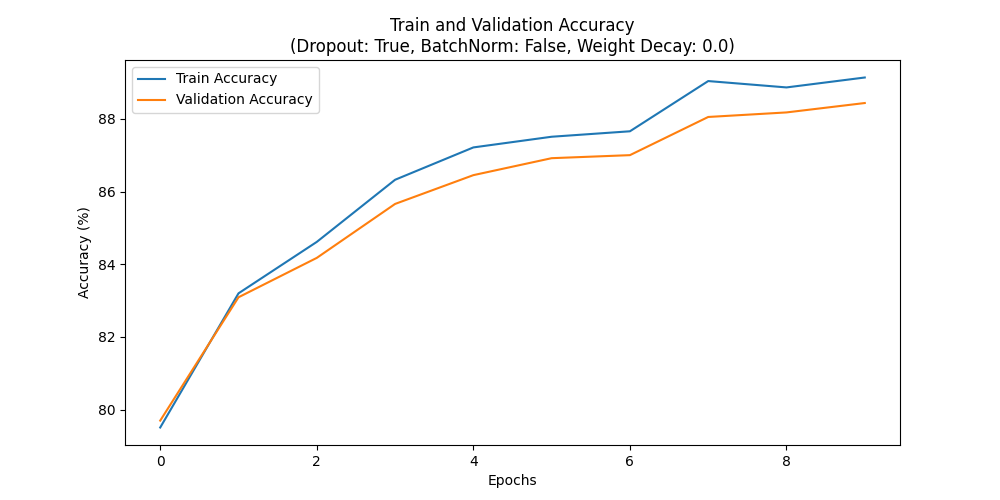
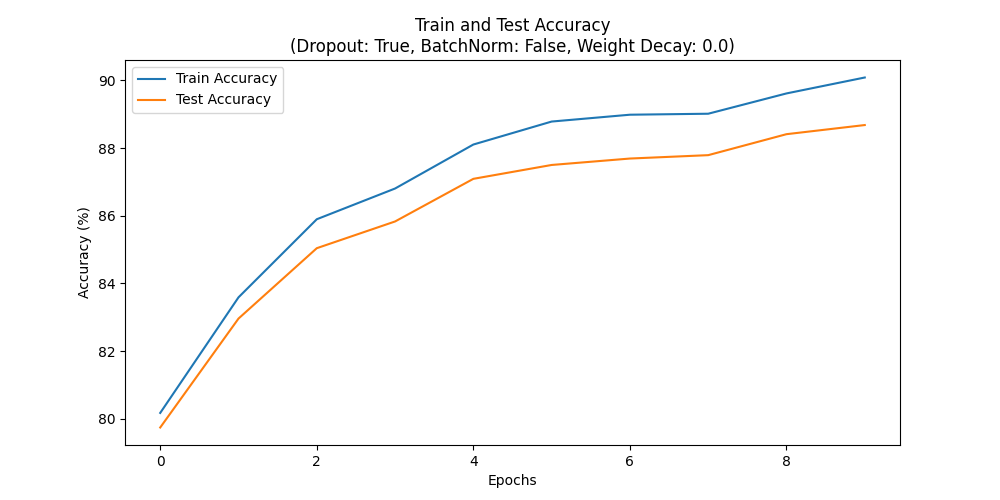
Changed from val to test

diff --git a/code/train.py b/code/train.py
@@ -2,6 +2,7 @@ import torch
 import torch.nn as nn
 import torch.optim as optim
 from tqdm import tqdm
+from evaluate import evaluate
 
 def train_epoch(model, dataloader, criterion, optimizer, device):
     model.train()
@@ -37,12 +38,13 @@ def validate(model, dataloader, criterion, device):
             correct += predicted.eq(labels).sum().item()
     return running_loss / len(dataloader), 100. * correct / total
 
-def train(model, train_loader, val_loader, num_epochs, learning_rate, device, weight_decay):
+def train(model, train_loader, val_loader, test_loader, num_epochs, learning_rate, device, weight_decay):
     criterion = nn.CrossEntropyLoss()
     optimizer = optim.Adam(model.parameters(), lr=learning_rate, weight_decay=weight_decay)
     
     train_acc_list = []
     val_acc_list = []
+    test_acc_list = []
     for epoch in range(num_epochs):
         train_loss, _ = train_epoch(model, train_loader, criterion, optimizer, device)
         
@@ -59,5 +61,12 @@ def train(model, train_loader, val_loader, num_epochs, learning_rate, device, we
         print(f"Train Loss: {train_loss:.4f} | Train Acc (without dropout): {train_acc:.2f}%")
         print(f"Val Loss: {val_loss:.4f} | Val Acc: {val_acc:.2f}%")
         print("-----------------------------")
+
+        # Evaluate on test set
+        test_acc = evaluate(model, test_loader, device)
+        test_acc_list.append(test_acc)
+        
+        print(f"Test Acc: {test_acc:.2f}%")
+        print("-----------------------------")
     
-    return model, train_acc_list, val_acc_list
+    return model, train_acc_list, val_acc_list,  test_acc_list

diff --git a/code/main.py b/code/main.py
@@ -19,14 +19,14 @@ def main():
     # Initialize model
     use_dropout = False  # Toggle this to True/False to enable/disable dropout
     use_batchnorm = False  # Toggle this to True/False to enable/disable batch normalization
-    weight_decay = 0.000  # Set this to 0 to disable weight decay
+    weight_decay = 0.0001  # Set this to 0 to disable weight decay
     
     model = LeNet5(use_dropout=use_dropout, use_batchnorm=use_batchnorm).to(device)
     
     # Train model
     num_epochs = 10
     learning_rate = 0.001
-    trained_model, train_acc, val_acc = train(model, train_loader, val_loader, num_epochs, learning_rate, device, weight_decay)
+    trained_model, train_acc, val_acc, test_acc = train(model, train_loader, val_loader, test_loader, num_epochs, learning_rate, device, weight_decay)
     
     # Evaluate on test set
     test_accuracy = evaluate(trained_model, test_loader, device)
@@ -35,10 +35,10 @@ def main():
     # Convergence Graph
     plt.figure(figsize=(10, 5))
     plt.plot(train_acc, label="Train Accuracy")
-    plt.plot(val_acc, label="Validation Accuracy")
+    plt.plot(test_acc, label="Test Accuracy")
     plt.xlabel('Epochs')
     plt.ylabel('Accuracy (%)')
-    plt.title(f'Train and Validation Accuracy\n(Dropout: {use_dropout}, BatchNorm: {use_batchnorm}, Weight Decay: {weight_decay})')
+    plt.title(f'Train and Test Accuracy\n(Dropout: {use_dropout}, BatchNorm: {use_batchnorm}, Weight Decay: {weight_decay})')
     plt.legend()
     plt.savefig(f'convergence_dropout{use_dropout}_batchnorm{use_batchnorm}_weightdecay{weight_decay}.png')
     plt.show()
